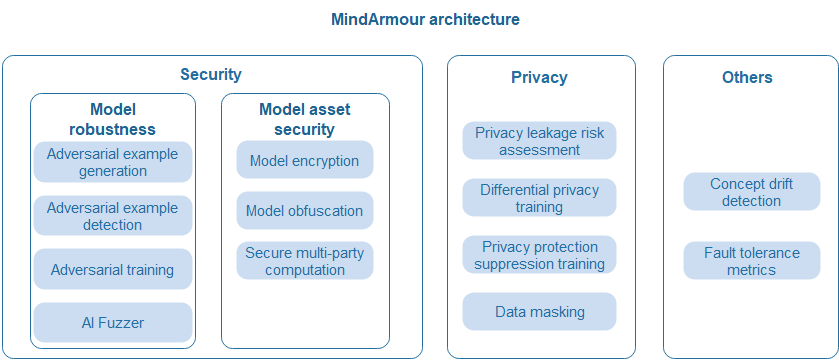
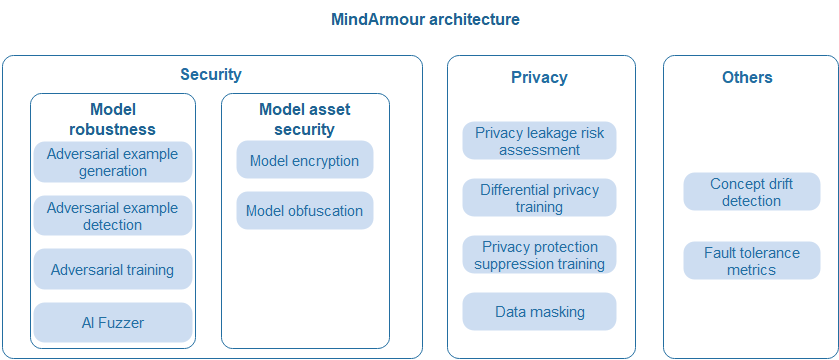
modify ma architecture

Changed region(s): [[0.2789, 0.6722, 0.4648, 0.7944]]

diff --git a/docs/mindarmour/docs/source_en/design.md b/docs/mindarmour/docs/source_en/design.md
@@ -66,7 +66,7 @@ AI Fuzzer consists of three modules:
 
 ### Model Asset Security
 
-Deep learning models have high business value and knowledge attributes. To protect model asset security and prevent models from being illegally copied, redistributed, and abused during transmission, deployment, and running, MindArmour provides encryption-based model file protection and structure parameter obfuscation-based lightweight model protection. In federated learning scenarios, secure multi-party computing capabilities with lossless precision are provided to prevent model theft.
+Deep learning models have high business value and knowledge attributes. To protect model asset security and prevent models from being illegally copied, redistributed, and abused during transmission, deployment, and running, MindArmour provides encryption-based model file protection and structure parameter obfuscation-based lightweight model protection.
 
 #### Model Encryption
 

diff --git a/docs/mindarmour/docs/source_zh_cn/design.md b/docs/mindarmour/docs/source_zh_cn/design.md
@@ -64,7 +64,7 @@ AI Fuzzer主要包括三个模块：
 
 ### 模型资产安全
 
-深度学习模型具有较高的商业价值和知识属性，为保护模型资产安全，防止模型在传输、部署、运行时被被非法复制、重新分发滥用，MindArmour提供了基于加密的模型文件保护功能和基于结构参数混淆的轻量级模型保护功能。在联邦学习场景中提供精度无损的安全多方计算能力防止模型窃取。
+深度学习模型具有较高的商业价值和知识属性，为保护模型资产安全，防止模型在传输、部署、运行时被被非法复制、重新分发滥用，MindArmour提供了基于加密的模型文件保护功能和基于结构参数混淆的轻量级模型保护功能。
 
 #### 模型加密
 
